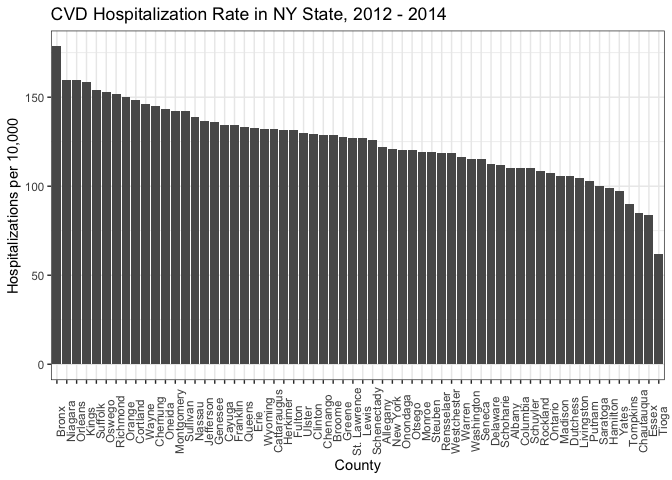
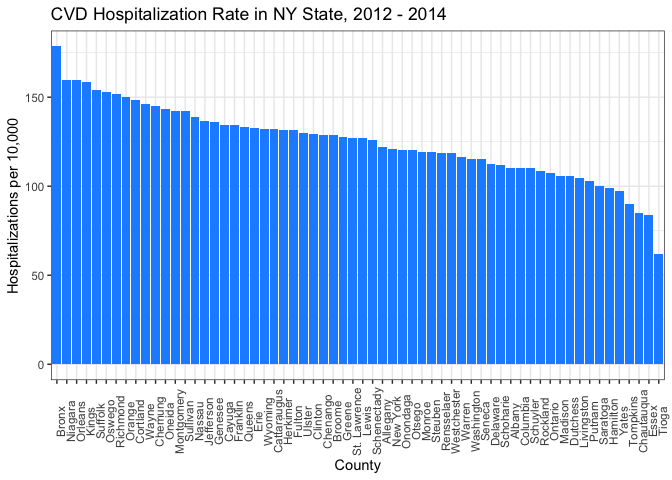
forgot to add in association plots

diff --git a/final_report_AAAD.md b/final_report_AAAD.md
@@ -14,63 +14,63 @@ When someone breathes, they are exposed not to a single compound in isolation bu
 Related work
 ------------
 
-Research conducted by Dr. Frederica Perera, Dr. Marianthi-Anna Kioumourtzoglou, and others at the Center for Children's Environmental Health, Columbia University, as well as previous classwork utilizing NOAA data inspired us to explore environmental data. Throughout our studies, we have learned that air pollution is known to have detrimental effects on human health. For instance, [high PM2.5](https://www.ncbi.nlm.nih.gov/pmc/articles/PMC5260007/) and [ozone exposure](https://www.atsjournals.org/doi/abs/10.1164/rccm.201811-2106ED) causes damage to the respiratory system, which puts individuals at risk for health outcomes like asthma and heart disease. We became personally interested about how air quality here may adversely affect our health outcomes upon learning that New York ranks tenth in [most polluted cities (by ozone)](https://www.lung.org/our-initiatives/healthy-air/sota/city-rankings/most-polluted-cities.html) in the United States.
+Research conducted by Dr. Frederica Perera, Dr. Marianthi-Anna Kioumourtzoglou, and others at the Center for Children's Environmental Health, Columbia University, as well as previous classwork utilizing NOAA data inspired us to explore environmental data. Throughout our studies, we have learned that air pollution is known to have detrimental effects on human health. For instance, [high PM2.5](https://www.ncbi.nlm.nih.gov/pmc/articles/PMC5260007/) and [ozone exposure](https://www.atsjournals.org/doi/abs/10.1164/rccm.201811-2106ED) causes damage to the respiratory system, which puts individuals at risk for health outcomes like asthma and heart disease. We became personally interested in the harmful effects of air pollution upon learning that New York ranks tenth in [most polluted cities (by ozone)](https://www.lung.org/our-initiatives/healthy-air/sota/city-rankings/most-polluted-cities.html) in the United States.
 
 Initial questions
 -----------------
 
 **How does exposure to air pollutants affect acute health outcomes?**
 
-Our team wanted to investigate how exposure to air quality might affect health outcomes. Based on our own knowledge and a basic literature review, we confirmed that health outcomes like asthma and cardiovascular disease are often associated with poor air quality. Hospitalization data for asthma and cardiovascular disease was selected to show rates of the two diseases across geographic regions.
+Our team wanted to investigate how exposure to air pollution might affect health outcomes. Based on our own personal knowledge, coursework, and a basic literature review, we confirmed that health outcomes like asthma and cardiovascular disease are often associated with poor air quality. Hospitalization data for asthma and cardiovascular disease were selected to investigate the distribution of disease across a specgtrum of urban to rural geographies.
 
-Initially, we looked at PM2.5 as a measure of air quality. We additionally looked into ozone levels across NY state counties. However, the data for both PM2.5 and ozone were sparse on their own. We finally settled on using the Air Quality Index (AQI) since it aggregates different measures of air pollutants including PM2.5 and ozone.
+Initially, we examined PM2.5 as one measure of air quality. Additionally, we explored ozone levels across New York State counties. However, the data for both PM2.5 and ozone were sparse on their own. We finally decited to use the Air Quality Index (AQI) because it aggregates various measures of air pollutants including PM2.5 and ozone.
 
 **What are trends across New York City? New York State?**
 
-Our question was focused on looking at hospitalizations and air pollutant exposure in New York City. However, investigating our data across New York City boroughs didn’t bring about substantial or interesting results because there wasn’t enough data available. Therefore, we adapted decided to look at AQI across New York State Counties.
+Our question was focused on looking at hospitalizations and air pollutant exposure in New York City. However, investigating data across New York City boroughs did not result in substantial or interesting results because data was limited. Therefore, we expanded our analysis to evaluate the AQI across New York State counties.
 
 Data
 ----
 
-For our data analysis, we used data from [New York State DOH HealthData](https://data.ny.gov/browse?category=Health&utf8=%E2%9C%93), [NYCDOH Environment and Health Data Portal](http://a816-dohbesp.nyc.gov/IndicatorPublic/publictracking.aspx), and [United States Environmental Protection Agency AirData](https://www.epa.gov/outdoor-air-quality-data).
+For our data analysis, we used data from [New York State DOH Health Data](https://data.ny.gov/browse?category=Health&utf8=%E2%9C%93), [NYCDOH Environment and Health Data Portal](http://a816-dohbesp.nyc.gov/IndicatorPublic/publictracking.aspx), and [United States Environmental Protection Agency Air Data](https://www.epa.gov/outdoor-air-quality-data).
 
-To access the CSVs used, [click here](https://drive.google.com/drive/u/0/folders/1_3HhtUXWRW23bItsjk7FQMvZp1NuCZma)
+To access the CSV files used, [click here](https://drive.google.com/drive/u/0/folders/1_3HhtUXWRW23bItsjk7FQMvZp1NuCZma)
 
 [Asthma emergency department visits, rate per 10,000 by county](https://health.data.ny.gov/Health/PA-Asthma-Emergency-Department-Visit-Rate-Per-10-0/4xmh-bgkz)
 
--   We noticed right away that this dataset only had data from 2014 from SPARCS, which became an important factor in selecting future datasets to use in our analysis.
--   The data, while we initially thought was presented by county, we found also included NYS regions (ie. New York City) which we removed in our cleaning process.
+-   Immediately we noticed right away that this dataset only had data from 2014 from SPARCS. This became an important factor in selecting future datasets to use in our analysis.
+-   The data, which we thought was organized by county, also included NYS regions (i.e. New York City and Western NY). We removed these auxiliary regions in our cleaning process.
 
 [Age-adjusted cardiovascular disease hospitalization, rate per 10,000 by county](https://health.data.ny.gov/Health/Community-Health-Age-adjusted-Cardiovascular-Disea/3ycx-tfnb)
 
--   This was the most complete dataset on CVD from SPARCS, and matched the data years of the asthma dataset (2012-2014).
--   This dataset was doubled in size because of the two “health topics” that cardiovascular disease fell under, resulting in two rows of identical data for each county. We selected for the “cardiovascular disease indicator” health topic, and removed NYS regions in the cleaning process as well.
--   This dataset was age-adjusted since the risk of developing cardiovascular disease increases with age.
+-   This was the most complete dataset on CVD from SPARCS. Also, the years for which data was available matched the years of the asthma dataset (2012-2014).
+-   This dataset was doubled in size because cardiovascular disease was included under two "health topics" categories, resulting in two rows of identical data for each county. We selected for the “cardiovascular disease indicator” health topic. We also removed NYS regions as previously described.
+-   This dataset was age-adjusted because the risk of developing cardiovascular disease increases with age.
 
 [PM 2.5 by NYS county](https://apps.health.ny.gov/statistics/environmental/public_health_tracking/tracker/index.html#/airpollutionExportData)
 
--   This dataset had PM 2.5 by county data for 2000 - 2017, but the data was very incomplete, with only 13 out of 62 counties reporting measures.
--   We selected for 2014, to match our outcome data.
--   PM 2.5 was also measured in a variety of ways for the 13 counties, including ug/m^3, percent, and person-days, which is not standard across available datasets.
+-   This dataset had PM 2.5 data by county data for 2000 - 2017. However the data was very incomplete, with only 13 out of 62 counties reporting measures.
+-   We selected for the year 2014 in order to aligh with our health outcomes data.
+-   PM 2.5 was also measured in a variety of ways for the 13 counties, including ug/m^3, percent, and person-days. These measures were not standardized across all available datasets.
 
 [Annual summary air quality index data by county, 2014](https://aqs.epa.gov/aqsweb/airdata/download_files.html#Annual)
 
--   This dataset provided county level air quality index (0-500 scale) data for 2014, and we selected for New York State, but only 29 counties had available data.
--   The data listed the number of good to hazardous air quality index days for each county, and the sum of total unhealthy days (unhealthy for sensitive groups or worse).
--   The dataset also listed how many days out of the year each county measured for a series of pollutants, but we chose to use total unhealthy days as an aggregate measure of air quality.
+-   This dataset provided county-level AQI (0-500 scale) data for 2014. We selected for New York State counties, of which only 29 had available data.
+-   The data listed the number of "good" to "hazardous" air quality index days for each county as well as the sum of total unhealthy days (unhealthy for sensitive groups or worse).
+-   Also, the dataset also listed the number of days per year that each county measured for a series of pollutants. However, we chose to use total unhealthy days as an aggregate measure of air quality.
 
 [NYS, hospitals per county](https://profiles.health.ny.gov/hospital/county_or_region/)
 
--   There was no readily available dataset for number of hospitals per county, so we had to manually use the NYS Health Profiles to create a dataset with the number of hospitals per county.
+-   There was no readily available dataset for the number of hospitals per county, so we had to manipulate the NYS Health Profiles to create a dataset with the number of hospitals per county.
 
 Exploratory analysis
 --------------------
 
-Initial PM2.5 data exploration was focused on New York City counties. However, limited data was available, so NY state county data were selected to demonstrate the relationship between PM2.5 and hospitalizations of asthma and CVD.
+Initial PM2.5 data exploration was focused on New York City counties. However, limited data was available, so New York State county data were selected to explore the relationship between PM2.5 and hospitalizations of asthma and CVD.
 
-Over 2000-2014, levels of PM2.5 across all counties in New York State have steadily decreased.
+Over 2000-2017, levels of PM2.5 across all counties in New York State have steadily decreased.
 
-#### PM2.5 Dataset, 2000-2014
+#### PM2.5 Dataset, 2000-2017
 
 ``` r
 PM_county_NYS = read_csv("./data/PM2.5_county_NYS.csv") %>%
@@ -82,7 +82,7 @@ PM_county_NYS = read_csv("./data/PM2.5_county_NYS.csv") %>%
   select(county, year, output, measure)
 ```
 
-#### Plot PM2.5 (ug/m3) over time, 2000-2014
+#### Plot PM2.5 (ug/m3) over time, 2000-2017
 
 ``` r
 PM_plot_conc_allyears = PM_county_NYS %>%
@@ -90,7 +90,7 @@ PM_plot_conc_allyears = PM_county_NYS %>%
   group_by(county, year) %>%
   ggplot(aes(x = year, y = output, color = county)) + 
   geom_line() + 
-  labs(title = "Ambient PM2.5 Concentrations in New York State, 2000-2014", 
+  labs(title = "Ambient PM2.5 Concentrations in New York State, 2000-2017", 
        x = "Year", 
        y = "PM2.5 (ug/m3)")
 
@@ -109,27 +109,27 @@ nyc_pm25 = read_csv(file = "./data/data_AA/annual_aqi_by_county_2014.csv") %>%
   filter(state == "New York")
 ```
 
-#### Days of PM2.5 by NY County
+#### Days of Elevated PM2.5 by NY County
 
 ``` r
 pm_hist = nyc_pm25 %>%
   ggplot(aes(x = reorder(county, -days_pm2_5), y = days_pm2_5)) + 
   labs(
-    title = "Days of PM2.5 by County",
+    title = "Days of Elevated PM2.5 by County",
     x = "County",
-    y = "Days with PM2.5") +
-  geom_histogram(stat = "identity") + theme(axis.text.x = element_text(angle = 90))
+    y = "Days of PM2.5") +
+  geom_histogram(stat = "identity", fill = "dodgerblue") + theme(axis.text.x = element_text(angle = 90))
 
 pm_hist
 ```
 
 <img src="final_report_AAAD_files/figure-markdown_github/pm_county_epa-1.png" width="90%" />
 
-Kings, Oneida, and Nassau reported the most number of days of PM2.5.
+Kings, Oneida, and Nassau counties reported the highest number of days of unhealthy PM2.5.
 
-Literature shows that exposure to PM2.5 is associated with asthma and cardiovascular disease. Therefore, we wanted to assess hospitalization of asthma and CVD across counties.
+Literature supports the association of PM2.5 exposure with asthma and cardiovascular disease. With this in mind, we wanted to assess asthma and CVD hospitalizations across counties.
 
-As we can see here, there is a lot of missing PM 2.5 data at the county level, and various measures (percent, person-days, ug/m^3). Given that the US EPA AQI annual summary datasets have more available data covering more NYS counties on days of adverse air quality, we will utilize "total unhealthy air quality days" as a proxy for overall poor air quality.
+As seen in the above figure, there is a lot of missing PM 2.5 data at the county level. Given that the US EPA AQI annual summary datasets have data for more New York State counties, we will utilize "total unhealthy air quality days" as a proxy for overall poor air quality.
 
 #### Asthma ER Admissions Rate Dataset, 2014
 
@@ -155,11 +155,11 @@ asthma_ER = read_csv("./data/Asthma_ER_Rate_10000.csv") %>%
 asthma_plot_14 = asthma_ER %>%
     ggplot(aes(x = reorder(county, -asthma_ER_percent_rate), 
                y = asthma_ER_percent_rate, group = 1)) + 
-  geom_histogram(stat = "identity") + 
+  geom_histogram(stat = "identity", fill = "dodgerblue") + 
   theme(axis.text.x = element_text(angle = 90)) + 
   labs(x = "County", 
        y = "Asthma ER Admission Rate (per 10,000)", 
-       title = "Asthma Emergency Room (ER) Admission Rate (per 10,000) by County in New York State, 2014")
+       title = "Asthma ER Admission Rate (per 10,000) by County in New York State, 2014")
 ## Warning: Ignoring unknown parameters: binwidth, bins, pad
 asthma_plot_14 
 ## Warning: Removed 1 rows containing missing values (position_stack).
@@ -187,7 +187,7 @@ cvd_data %>%
     title = "CVD Hospitalization Rate in NY State, 2012 - 2014",
     x = "County",
     y = "Hospitalizations per 10,000") +
-  geom_histogram(stat = "identity") + 
+  geom_histogram(stat = "identity", fill = "dodgerblue") + 
   theme_bw() +
   theme(axis.text.x = element_text(angle = 90), legend.position = "none")
 ## Warning: Ignoring unknown parameters: binwidth, bins, pad
@@ -195,12 +195,12 @@ cvd_data %>%
 
 <img src="final_report_AAAD_files/figure-markdown_github/cvd_bar_nys-1.png" width="90%" />
 
-Bronx recorded the highest rates of asthma emergency room admissions, which was more than double that of New York county (second highest rate), and nearly triple that of Kings county (third highest rate). Bronx also recorded the highest rates of cardiovascular hospitalization, with Niagara and Orleans following.
+Bronx county recorded the highest rates of asthma emergency room admissions, which was more than double that of New York county (second highest rate) and nearly triple that of Kings county (third highest rate). Bronx county also recorded the highest rates of cardiovascular hospitalization, followed by Niagara and Orleans counties.
 
 Additional analysis
 -------------------
 
-In our exploratory analysis, we found that the trends of hospitalizations and PM 2.5 do not trend together, and a potential confounder to that may be the number of hospitals in each county. However, given that the PM 2.5 and ozone datasets were missing many counties worth of data, we chose to use Air Quality Index measures (specifically number of unhealthy air quality days) as it is both an aggregate measure of all air pollutants and also had more complete data for New York State.
+In our exploratory analysis, we found that the trends of hospitalizations and PM 2.5 do not trend together. A potential confounder of this relationship may be the number of hospitals in each county. Considering that the PM 2.5 and ozone datasets were missing data for many counties, we chose to use Air Quality Index measures (specifically number of unhealthy air quality days) because it is a strong aggregate measure of all air pollutants and because it had more complete state-wide data.
 
 **Checks before regression analysis:**
 
@@ -217,11 +217,11 @@ sum(is.na(num_hosp))
 ## [1] 0
 ```
 
-There are 2 pieces of missing data in `asthma_ed` file under Hamilton county, which could be a data entry error or due to the fact that Hamilton county has a very small population (4703) and none were hospitalized for asthma.
+There are 2 pieces of missing data in `asthma_ed` file under Hamilton county. This could be a data entry error or could be due to the fact that Hamilton county has a very small population (4,703) and no asthma hospitalizations.
 
 #### Regression model
 
-We tested two models for each outcome (asthma hospitalizations and CVD hospitalizations): a crude model with just total days of unhealthy air quality per county as a predictor, and an adjusted model with total days of unhealthy air quality as well as number of hospitals per county.
+We tested two models for each outcome (asthma hospitalizations and CVD hospitalizations): a crude model with just total days of unhealthy air quality per county as a predictor and an adjusted model with total days of unhealthy air quality as well as number of hospitals per county.
 
 Crude model:
 
@@ -351,9 +351,9 @@ asthma_diagnostics + cvd_diagnostics
 
 <img src="final_report_AAAD_files/figure-markdown_github/diagnostics_joined-1.png" width="90%" />
 
-The plot of the residuals illustrates that the model does not predict higher values very well, which makes sense given that the rate of asthma hospitalizations events is generally not very high, save for select counties in NYC. The values cluster in the lower end of the distribution, and the fitted line jumps around, maybe in large part due to the small number of counties.
+The plot of the residuals illustrates that the model does not predict higher values very well. This makes sense because the rate of asthma hospitalizations is generally not very high, save for select counties in NYC. The values cluster in the lower end of the distribution, and the fitted line jumps around, potentially in large part due to the small number of counties.
 
-The plot of the residuals for the adjusted CVD hospitalizations model shows that the residuals are widely distributed for the lower predicted values, and has similar issues to the asthma hospitalizations plot in that the small sample size pulling the fitted line.
+The plot of the residuals for the adjusted CVD hospitalizations model shows that the residuals are widely distributed for the lower predicted values. Similar to the asthma hospitalizations plot, its small sample size pulls the fitted line.
 
 #### Putting RMSE plots together
 
@@ -363,7 +363,7 @@ asthma_rmse + cvd_rmse
 
 <img src="final_report_AAAD_files/figure-markdown_github/rmse_plots-1.png" width="90%" />
 
-In our cross validation of the asthma model as well as the CVD model, we see that in the plots of the RMSE show the adjusted model to be slightly better than the crude model. As our sample size is still relatively small and with large disparities between counties (given that New York State has urban and rural pockets), the plot of the residuals with the fitted values sees the fitted line jump across the predicted values.
+In our cross validation of the asthma model as well as the CVD model, we see that in the plots of the RMSE show the adjusted model to be slightly better than the crude model. The plot of the residuals with the fitted values shows the fitted line jumping across the predicted values. This may be explained by our relatively small sample size that has large disparities between counties (given New York State's urban and rural pockets).
 
 #### Final models
 
@@ -381,29 +381,37 @@ adj_cvd_model = lm(cvd_percent_rate ~ total_unhealthy_days + number_of_hospitals
 # summary(crude_cvd_model)
 ```
 
-In our final adjusted asthma model, we see that the adjusted R-squared value is 0.4044 (compared to 0.2755 for the crude model), with a statistically significant p-value of 8.579e-08 (compared to 7.099e-06 for the crude model). This indicates a moderately well fitting model for asthma and air quality, but could still benefit from the addition of other predictors.
+In our final adjusted asthma model, we see that the adjusted R-squared value is 0.4044 (compared to 0.2755 for the crude model), with a statistically significant p-value of 8.579e-08 (compared to 7.099e-06 for the crude model). This indicates a moderately well-fitted model for asthma and air quality. Nevertheless, it could still benefit from the addition of other predictors.
 
-In our final adjusted CVD model, we see that the adjusted R-squared value is 0.0488 (compared to 0.0166 for the crude model), with a statistically insignificant p-value of 0.08556 (compared to 0.1592 for the crude model). This indicates that the while the adjusted model is better than the crude, it is still not a good model in predicting the effects of air quality on CVD hospitalizations in New York State.
+In our final adjusted CVD model, we see that the adjusted R-squared value is 0.0488 (compared to 0.0166 for the crude model), with a statistically insignificant p-value of 0.08556 (compared to 0.1592 for the crude model). This indicates that the although the adjusted model is better than the crude model, it is still not a good model to predict the effects of air quality on CVD hospitalizations in New York State.
 
 Discussion
 ----------
 
-In our visualizations, we see that there are large disparities in rate of hospitalizations for asthma and cardiovascular disease at the county level. Most noticeably, we see that Bronx County has more than double the amount of asthma hospitalizations per 10,000 population than any other county. In the plots of ambient PM 2.5 against asthma admission rates, we see that the Bronx falls towards the higher range of PM 2.5 as a clear outlier, where the rest of the points follow a clear positive trending line. However, New York County (Manhattan) has the highest plotted PM 2.5. An interesting finding is that four out of the five boroughs of New York City (missing Richmond County, or Staten Island) are in the top 5 of asthma hospitalizations. This is not surprising, given that New York City as a large urban center that has much more possible pollutants driving the rate of hospitalizations, and these results give us a clear picture of where the burden of asthma lies. It’s important to note that all five boroughs are featured in the plot of ambient PM 2.5 and asthma admissions - meaning they had reported measures of air quality data, while not all state counties did not. Interventions should target means to reduce ambient PM 2.5 in Manhattan and the Bronx, and explore other factors (including social determinants of health) in addressing asthma prevalence in the Bronx.
+Our visualizations highlight large disparities in rate of hospitalizations for asthma and cardiovascular disease at the county level. Most noticeably, Bronx County has more than double the amount of asthma hospitalizations per 10,000 population than any other county.
 
-Bronx County also rises above all other counties in terms of age-adjusted cardiovascular disease hospitalizations, but not by as much as for asthma hospitalizations. The other New York City borough in the top five is Kings County (Brooklyn). The plot of CVD and ambient PM 2.5 does not have as clear of a positive linear trend, and sees the available data clustered in the middle range of values for hospitalizations. In the scatterplot, we also see that there are two values (Essex County and Chautauqua County) that may not be outliers, but clearly fall towards the lower range of CVD hospitalizations. We are somewhat surprised by the results, as our hypothesis was that ambient air quality would negatively affect CVD hospitalizations similarly to asthma hospitalizations. This indicates that there may be many additional covariates to consider, and that the mechanisms of which poor air quality affects asthma and CVD are different.
+<img src="final_report_AAAD_files/figure-markdown_github/association_pm_asthma-1.png" width="90%" />
 
-Looking at our final models and their corresponding RMSE violin plots, we see that the adjusted model is better for both asthma and CVD hospitalizations. However, the asthma model is moderately well fitting with an R-squared value of 0.4044, whereas the CVD model is not well fitting with an R-squared value of 0.0488.
+The plots of ambient PM 2.5 against asthma admission rates show that Bronx County falls towards the higher range of PM 2.5 as a clear outlier, whereas the rest of the points follow a clear positive trending line. New York County (Manhattan) has the highest plotted PM 2.5. An interesting finding is that four out of the five boroughs of New York City (missing Richmond County, or Staten Island) are in the top 5 of asthma hospitalizations. This is not surprising because New York City is a large urban center with more possible pollutants to drive the rate of hospitalizations. Our results present a clear picture of asthma burden disparities. It is important to note that all five city counties (boroughs) are featured in the plot of ambient PM 2.5 and asthma admissions because they reported measures of air quality data, whereas not all state counties did not. Interventions should target means to reduce ambient PM 2.5 in Manhattan and the Bronx while exploring other factors (including social determinants of health) in addressing asthma prevalence in the Bronx.
+
+Bronx County also rises above all other counties in terms of age-adjusted cardiovascular disease hospitalizations. This difference is less pronounced for asthma hospitalizations. The other New York City borough in the top five is Kings County (Brooklyn).
+
+<img src="final_report_AAAD_files/figure-markdown_github/association_pm_cvd-1.png" width="90%" />
+
+The plot of CVD and ambient PM 2.5 does not have as clear of a positive linear trend; it shows the available data clustered in the middle range of values for hospitalizations. The scatterplot shows two values (Essex County and Chautauqua County) that may not be outliers, but clearly fall towards the lower range of CVD hospitalizations. We are somewhat surprised by the results given our hypothesis that ambient air quality would negatively affect CVD hospitalizations similarly to asthma hospitalizations. This suggests that additional covariates should be considered and that the exposure and disease mechanisms may be different for asthma than for CVD.
+
+Examining our final models and their corresponding RMSE violin plots, we see that the adjusted model is better for both asthma and CVD hospitalizations. The asthma model is moderately well-fitted with an R-squared value of 0.4044. The CVD model is not well-fitted with an R-squared value of 0.0488.
 
 ### Limitations
 
-A major limitation of this analysis was missing data. Throughout the exploration phase, we found various measures of air quality for New York State that was incomplete. Although there are standards in place, definitions of air and air quality are not consistently measured across the different publicly available data sources that were looked at. For example, some air quality data was measured in ug/m3, while other data showed person-time exposed above a given threshold of “poor” levels of air quality. This makes it challenging to compare our findings to others. Additionally, certain counties in New York state did not have any PM 2.5 data available. In future studies, we would recommend looking for data beyond what is publicly available to get a more complete picture of what is occurring across New York state.
+A major limitation of this analysis was missing data. Throughout the exploration phase, we identified various measures of air quality for New York State that were incomplete. Although there are standards in place, definitions of air and air quality are not consistent across the different publicly available data sources that we examined. For example, some air quality data was measured in ug/m3 while other data provided person-time exposed above a given threshold of unhealthy levels of air quality. This makes it challenging to compare our findings to others. Additionally, certain counties in New York State did not have PM 2.5 data available. In future studies, we would recommend looking for data beyond that which is publicly available in order to obtain a more complete picture of what occurrs across New York State.
 
-Missing data also caused limitations when looking at hospitalization rates for asthma and CVD across New York state. The final analysis shows a plot for CVD hospitalizations from 2012-2014, while the asthma hospitalization plot is only for 2014. This inconsistently makes it challenging to make comparisons across the two plots. However, since the purpose of this analysis was not to compare CVD and asthma hospitalizations, but rather to look at how air quality might affect the health outcomes’ hospitalization rates, so the analysis is valuable. The missing data also affected the model building and analysis, as original analysis of just New York City was largely underpowered. However, as New York State has a large collection of open source data, which other states may not have, so we decided to simply expand our range to the rest of the counties in the state.
+Missing data also created challenges when looking at hospitalization rates for asthma and CVD across New York State. The final analysis shows a plot for CVD hospitalizations from 2012-2014, while the asthma hospitalization plot is only for 2014. This inconsistency makes it challenging to draw comparisons across the two plots. However, since the purpose of this analysis was not to compare CVD and asthma hospitalizations but rather to look at how air quality might affect the hospitalization rates, the analysis remains valuable. The missing data also affected the model building and analysis because the original analysis limited to New York City was largely underpowered. However, given New York State's large collection of open source data, which other states may not have, we decided to simply expand our range to the rest of the counties in the state.
 
-Asthma is a chronic disease, so asthma emergency room visit rates reflect asthma exacerbation incidents. In contrast, cardiovascular hospitalization rates do not differentiate between a one-time acute episode like a stroke or an exacerbation of an underlying cardiovascular condition like high blood pressure or arrhythmia. There also could be other ways to measure the health outcome rates for CVD and asthma instead of hospitalization rates, which might not be accurate representation of true rates of the diseases based hospital access and other factors such as insurance status that might affect a person’s choice to go to a hospital.
+Asthma is a chronic disease, so asthma emergency room visit rates reflect asthma exacerbation incidents. In contrast, cardiovascular hospitalization rates do not differentiate between a one-time acute episode like a stroke or an exacerbation of an underlying cardiovascular condition like high blood pressure or arrhythmia. Also, there could be other measures of health outcome rates for CVD and asthma besides hospitalization rates. Hospitalization rates might not be an accurate representation of true rates of diseases because hospital access and other factors, such as insurance status, might affect a person’s decision to go to a hospital.
 
 ### Conclusion
 
-The analysis confirms that ambient PM2.5 exposure is associated with asthma and CVD, using hospitalization rates as the proxy indicator. New York City counties, including the Bronx and New York, have high ambient PM2.5 exposure. Bronx counties has the most number of hospitalizations per 10,000 people for both asthma and CVD. Our analysis shows that exposure to ambient PM2.5 does not account for all the disparity in hospitalization rates seen in the Bronx, it does account for some of it. Interventions related to air quality should be focused in the Bronx and New York Counties.
+The analysis confirms that ambient PM2.5 exposure is associated with asthma and CVD, using hospitalization rates as the proxy indicator. New York City counties, including the Bronx and New York, have high ambient PM2.5 exposure. Bronx County has the highest number of hospitalizations per 10,000 people for both asthma and CVD. Our analysis shows that exposure to ambient PM2.5 does not account for all the disparity in hospitalization rates seen in the Bronx, although it does account for some of it. Air quality interventions should focus their resources in Bronx and New York counties.
 
-Future studies should look into measures of air quality that are consistently collected for better comparability purposes. Additionally, different indicators for asthma and CVD would be helpful since hospitalization rates might not be the best measure for the purposes of this research question.
+Future studies should investigate measures of air quality that are consistently collected for improved comparability. Additionally, for the purposes of answering this research question, it would be useful to incorporate different indicators for asthma and CVD beyond hospitalization rates.
